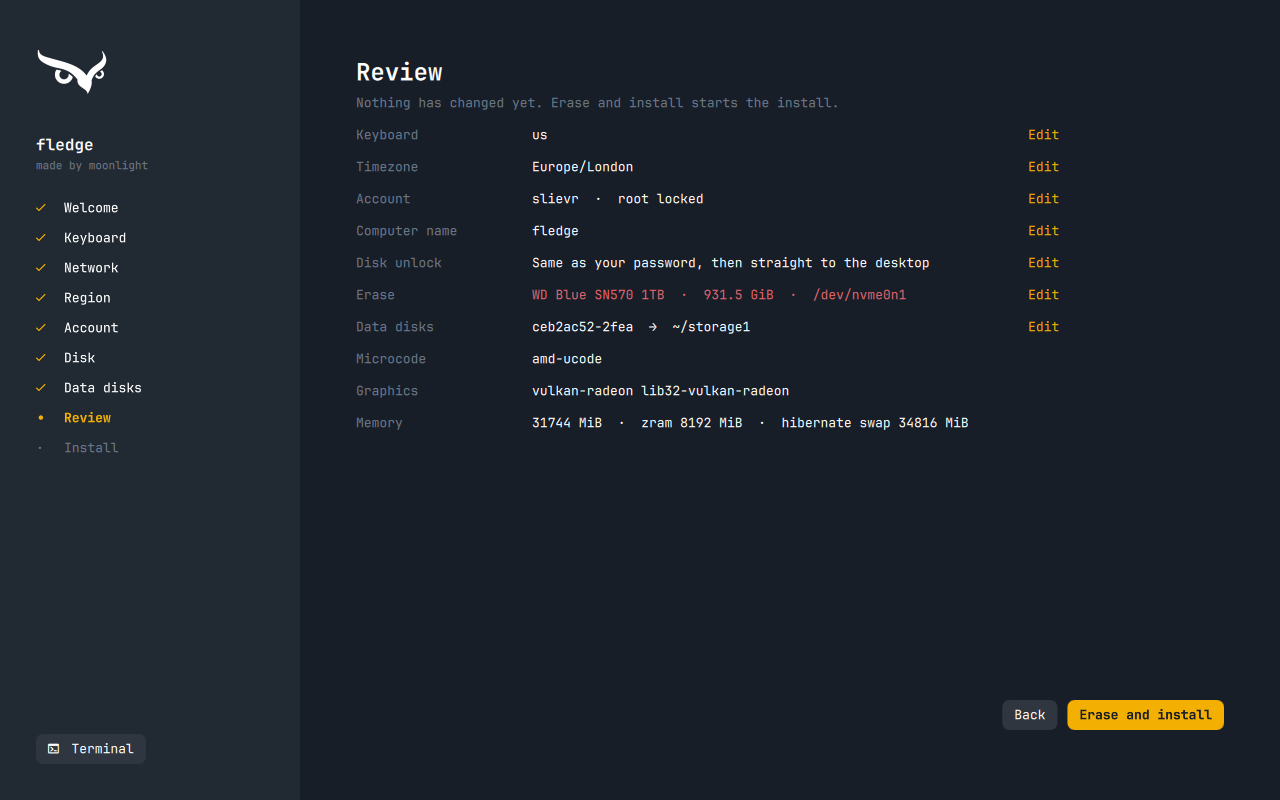
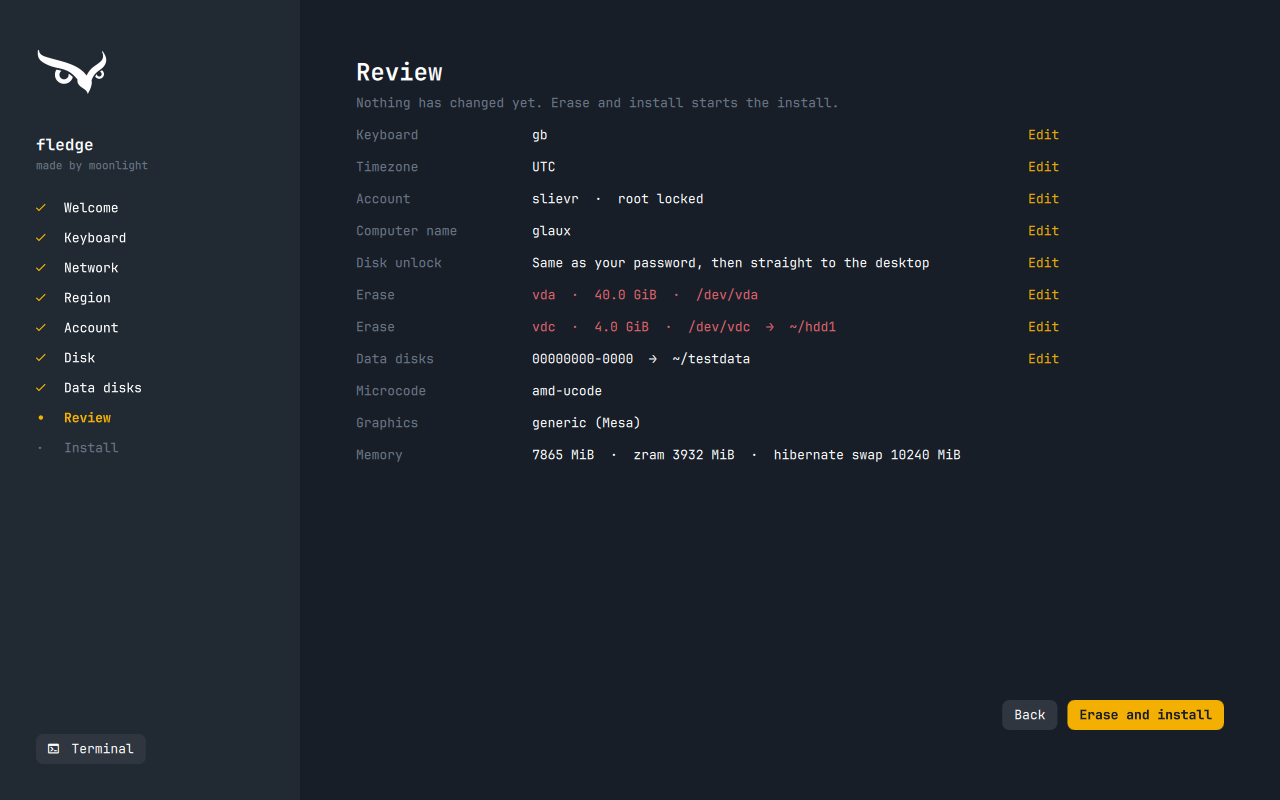
docs: wiping drives into storage verified end to end (two installs, stale boot entry pruned); Data disks screenshot, DATA_WIPES and the VM's third disk documented

diff --git a/cachyos/iso/README.md b/cachyos/iso/README.md
@@ -53,11 +53,39 @@ rewrites the installed repo, and the checks expect it clean) and **with a tty**
 
     ip="$(cachyos/vm/vm.sh ip)"
     scp cachyos/iso/test/verify-install.sh "slievr@$ip:/tmp/"
-    ssh -t "slievr@$ip" 'VERIFY_LAYOUT=gb VERIFY_AUTOLOGIN=1 VERIFY_DATA_MOUNT=~/testdata bash /tmp/verify-install.sh'
+    ssh -t "slievr@$ip" 'VERIFY_LAYOUT=gb VERIFY_AUTOLOGIN=1 VERIFY_DATA_MOUNT=~/testdata VERIFY_WIPE=~/hdd1:hdd1 bash /tmp/verify-install.sh'
 
-(`VERIFY_*` only when the run chose that layout, same disk and login password, and data disk: format the
-VM's second disk first with `mkfs.ext4 -U 00000000-0000-4000-8000-00000000da7a
-/dev/vdb` from a root console, the UUID `profile.sh` maps to `~/testdata`.)
+(`VERIFY_*` only when the run chose that layout, same disk and login password,
+and data disks. `VERIFY_DATA_MOUNT`: before starting the installer, format the
+VM's second disk from a root console with the UUID `profile.sh` maps to
+`~/testdata` and leave a marker on it, which the check expects to survive:
+
+    mkfs.ext4 -F -U 00000000-0000-4000-8000-00000000da7a /dev/vdb
+    mount /dev/vdb /mnt
+    touch /mnt/fledge-test-marker
+    umount /mnt
+
+`VERIFY_WIPE=<folder>:<label>`: Data disks › Wipe on the VM's blank third disk
+(`vdc`; virtio reports it rotational with no transport, so it's a Hard disk and
+the default is `~/hdd1` / `hdd1`). It checks one ext4 partition with that label
+and partition name, the fstab line, the mount on access and that the user can
+write there. Every run also checks the firmware boot entries: none names a
+partition that no longer exists, and the first in `BootOrder` is on the new
+ESP. OVMF keeps NVRAM across reinstalls but `destroy-vm.sh` deletes it, so
+the stale-entry case needs a second install into the same VM. The CD drive
+is empty after the first install, so put the ISO back and boot it through
+Limine's firmware menu:
+
+    virsh -c qemu:///system destroy cachyos-test
+    virsh -c qemu:///system change-media cachyos-test sda ~/.cache/cachyos-iso/<iso> --insert --config
+    virsh -c qemu:///system start cachyos-test   # then Esc (Limine menu), S, the DVD-ROM
+
+and install again, the same choices.)
+
+The live ISO has no ssh by default. For IPC from the host, start it from a
+root console (`systemctl start sshd`, your key in `/root/.ssh/authorized_keys`)
+and call the installer as the live user:
+`runuser -u fledge -- env XDG_RUNTIME_DIR=/run/user/1000 WAYLAND_DISPLAY=wayland-1 qs -c fledge-installer ipc call installer setWipe /dev/vdc`.
 
 Then the desktop checks (no tty needed), including a broken generated
 `binds.lua` across a login. verify-shell types keys with `wtype`, a test-only

diff --git a/cachyos/vm/README.md b/cachyos/vm/README.md
@@ -7,7 +7,7 @@ QEMU/KVM VM before touching real hardware.
 | --- | --- |
 | `host-deps.sh` | one-time: install libvirt/qemu/etc., join the `libvirt` group, grant the ISO-dir ACLs |
 | `download-iso.sh` | fetch + verify the latest stock CachyOS desktop ISO (cached) |
-| `provision-vm.sh` | create the VM: 40G system disk + 8G blank data disk, boot the ISO |
+| `provision-vm.sh` | create the VM: 40G system disk, 8G data disk, 4G disk to wipe, boot the ISO |
 | `dev-up.sh` | bring an already-installed VM up for a test iteration (SSH + viewer) |
 | `destroy-vm.sh` | delete the VM and all its disks |
 | `vm.sh` | dev loop: `sync` the working tree in, `run`/`sudo` commands in the logged-in session, `restow`, restart the dev `shell`, `shot` screenshots into `.superpowers/shots/`, `type` into the console, `relogin` |
@@ -15,13 +15,15 @@ QEMU/KVM VM before touching real hardware.
 Only `host-deps.sh` needs `sudo`. Everything else talks to the system
 libvirt over `qemu:///system` via `libvirt`-group membership.
 
-VM name: `cachyos-test`. Two disks:
+VM name: `cachyos-test`. Three disks:
 
 - **disk 1** (`vda`, 40G) — install target
 - **disk 2** (`vdb`, 8G) — stands in for the real machine's data disks;
   exercises multi-disk selection and the wrong-disk guard, and carries the
   staged repo (mirrors the real "copy the repo onto an untouched
   partition" delivery)
+- **disk 3** (`vdc`, 4G, blank) — the drive the graphical installer's
+  Data disks › Wipe erases into storage
 
 ## First-time setup
 
@@ -73,7 +75,8 @@ sets up key auth (via `expect`, using `slievr` / `$VM_PASSWORD`, default
 ## Notes
 
 - `provision-vm.sh` uses `--boot uefi` — the installer requires UEFI.
-- `destroy-vm.sh` removes **both** qcow2 disks (`--remove-all-storage`).
+- `destroy-vm.sh` removes **all three** qcow2 disks (`--remove-all-storage`)
+  and the NVRAM.
 - Hibernate works in the VM up to the picture: `systemctl hibernate`, unlock
   the disk, and the session resumes (a file in `/tmp` and `uptime -s` survive),
   lock screen and all. The first frame Hyprland draws after unlocking then

diff --git a/cachyos/install/README.md b/cachyos/install/README.md
@@ -46,6 +46,8 @@ the first reboot.
    - `HOSTNAME` — set it, or leave `""` to be prompted.
    - `DATA_DISKS` — the data disks to mount permanently (matched by UUID;
      disks not present on the machine are skipped). Set to `()` for none.
+     The graphical installer pre-selects these for Mount; wiping a drive is
+     only ever chosen by hand.
 2. Get this repo onto a partition the install will **not** touch:
    - Desktop: copy `~/proj/fledge` onto one of the data disks.
    - Laptop: copy it onto a USB stick.
@@ -86,8 +88,13 @@ The ISO's graphical installer (`fledge-install`, not the configurator) writes
 Keys: `DISK` (by-id path), `DISK_CONFIRMED=yes`, `HOSTNAME`, `TIMEZONE`,
 `USER_PASSWORD`, `LUKS_PASSPHRASE`, optional `ROOT_PASSWORD` (empty → root
 locked), `XKB_LAYOUT` / `XKB_VARIANT` (keyboard; default `us`, seeded into the
-user's fledge settings) and `DATA_MOUNTS` (`uuid:/abs/path,…`, `~` already
-expanded, may be empty). One `KEY=value` per line, unquoted; parsed by `lib/answers.sh`, never
+user's fledge settings), `DATA_MOUNTS` (`uuid:/abs/path,…`, `~` already
+expanded, may be empty) and `DATA_WIPES` (`label:/abs/path:disk,…`: each disk
+is erased into one ext4 partition named and labelled `label`, mounted at the
+path like a data disk; may be empty, and the disk path, a by-id one included,
+goes last because it can hold `:`). Before erasing, firmware boot entries on
+the target or a wiped drive are noted and removed after the bootloader stage,
+and fledge's entry goes first in `BootOrder`. One `KEY=value` per line, unquoted; parsed by `lib/answers.sh`, never
 sourced; deleted once read. Without `--answers` everything prompts as before.
 Without `--answers`, data-disk fstab entries from `profile.sh` are only
 written when their UUID is present on the machine.

diff --git a/README.md b/README.md
@@ -66,6 +66,8 @@ from the ISO. Nothing migrates them.
 | Lock screen | Quick settings |
 | ![Settings](docs/screenshots/10-settings.png) | ![Displays](docs/screenshots/11-displays.png) |
 | Settings (keybinds, displays, bar, idle, input) | Displays: arrange screens at their real size, rotated or not |
+| ![Installer data disks](docs/screenshots/12-installer-data-disks.png) | |
+| Data disks: mount a drive as it is, or wipe it into fresh storage | |
 
 ## Repo layout
 

diff --git a/docs/superpowers/specs/2026-10-20-installer-wipe-data-disks-design.md b/docs/superpowers/specs/2026-10-20-installer-wipe-data-disks-design.md
@@ -1,7 +1,7 @@
 # Installer: wipe drives as new storage, folders named by speed — design
 
 **Date:** 2026-10-20
-**Status:** approved 2026-10-20
+**Status:** implemented 2026-10-21
 **Branch:** `data-disk-wipe`
 
 ## Problem
